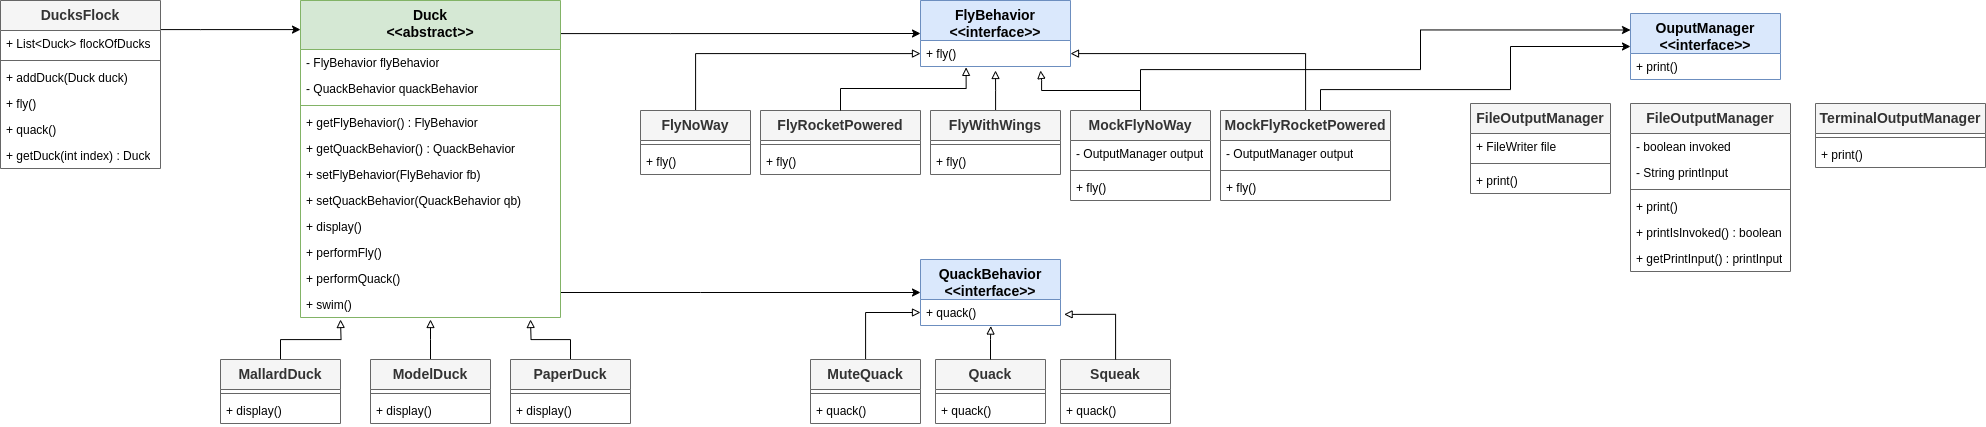
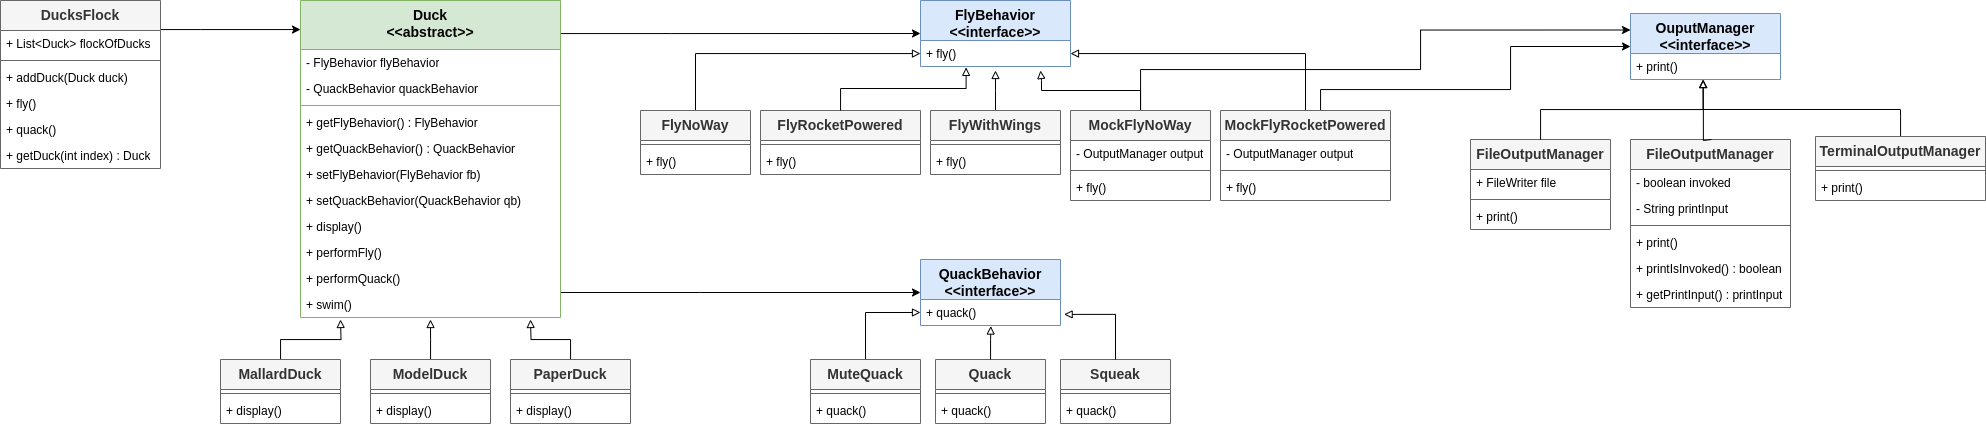
refactor tests on ducksimulator and fix class diagram

diff --git a/src/test/java/ducksimulator/DuckSimulatorTests.java b/src/test/java/ducksimulator/DuckSimulatorTests.java
@@ -2,14 +2,12 @@ package ducksimulator;
 
 import org.junit.jupiter.api.Test;
 
-import ducksimulator.flybehavior.FlyBehavior;
 import ducksimulator.flybehavior.FlyRocketPowered;
 import ducksimulator.flybehavior.MockFlyNoWay;
 import ducksimulator.flybehavior.MockFlyRocketPowered;
-import ducksimulator.quackbehavior.Quack;
-import ducksimulator.quackbehavior.Squeak;
+import ducksimulator.quackbehavior.MockMuteQuack;
+import ducksimulator.quackbehavior.MockSqueak;
 import output.MockOutputManager;
-import output.OutputManager;
 
 import static org.assertj.core.api.Assertions.assertThat;
 
@@ -25,9 +23,8 @@ public class DuckSimulatorTests {
     public void testChangeOfFlyBehavior() {
         Duck mallardDuck = new MallardDuck();
         MockOutputManager output = new MockOutputManager();
-        FlyBehavior flyBehavior = new MockFlyNoWay(output);
-        
-        mallardDuck.setFlyBehavior(flyBehavior);
+    
+        mallardDuck.setFlyBehavior(new MockFlyNoWay(output));
         mallardDuck.performFly();
         assert(output.getPrintInput().equals("I can't fly"));
         
@@ -38,13 +35,16 @@ public class DuckSimulatorTests {
 
     @Test
     public void testChangeOfQuackBehavior() {
-        Duck mallardDuck = new MallardDuck();
-        mallardDuck.setQuackBehavior(new Quack());
+        Duck mallardDuck = new PaperDuck();
+        MockOutputManager output = new MockOutputManager();
+    
+        mallardDuck.setQuackBehavior(new MockMuteQuack(output));
+        mallardDuck.performQuack();
+        assert(output.getPrintInput().equals("<< Silence >>"));
         
-        assert(mallardDuck.getQuackBehavior() instanceof Quack);
-
-        mallardDuck.setQuackBehavior(new Squeak());
-        assert(mallardDuck.getQuackBehavior() instanceof Squeak);
+        mallardDuck.setQuackBehavior(new MockSqueak(output));
+        mallardDuck.performQuack();
+        assert(output.getPrintInput().equals("Squeak"));
     }
 
     @Test
@@ -61,6 +61,5 @@ public class DuckSimulatorTests {
         assertThat(ducksFlock.getDuck(0)).isEqualTo(mallardDuck);
         assertThat(ducksFlock.getDuck(1)).isEqualTo(modelDuck);
         assertThat(ducksFlock.getDuck(2)).isEqualTo(paperDuck);
-
     }
 }

diff --git a/src/test/java/bowlinggame/TestFrame.java b/src/test/java/bowlinggame/TestFrame.java
@@ -1,6 +1,7 @@
 package bowlinggame;
 
 import static org.assertj.core.api.Assertions.*;
+import static org.junit.jupiter.api.Assertions.assertEquals;
 import static org.junit.jupiter.api.Assertions.assertThrows;
 
 import java.util.stream.Stream;
@@ -68,7 +69,6 @@ public class TestFrame {
         );
     }
 
-
     @ParameterizedTest
     @MethodSource("illegalLastFrameProvider")
     public void negativeFirstRollOfLastFrame(int[] nextNextFrameRolls) {
@@ -95,9 +95,8 @@ public class TestFrame {
         frame.roll(10, 0);
         nextFrame.roll(10, 0);
         rollAll(nextNextFrame, nextNextFrameRolls);
-        assert(nextNextFrame.getScore() == expectedScore);
+        assertEquals(nextNextFrame.getScore(), expectedScore);
     }
-
 
     private static Stream<Arguments> lastFrameScoreProvider() {
         return Stream.of(

diff --git a/src/test/java/caesarcracker/TestCaesarCracker.java b/src/test/java/caesarcracker/TestCaesarCracker.java
@@ -4,13 +4,11 @@ import static org.junit.jupiter.api.Assertions.assertEquals;
 
 import java.io.LineNumberInputStream;
 import java.io.StringBufferInputStream;
-import java.util.List;
 import java.util.stream.Stream;
 
 import org.junit.jupiter.params.ParameterizedTest;
 import org.junit.jupiter.params.provider.Arguments;
 import org.junit.jupiter.params.provider.MethodSource;
-
 
 @SuppressWarnings("deprecation")
 public class TestCaesarCracker {

diff --git a/src/main/java/ducksimulator/quackbehavior/MockMuteQuack.java b/src/main/java/ducksimulator/quackbehavior/MockMuteQuack.java
@@ -1,0 +1,17 @@
+package ducksimulator.quackbehavior;
+
+import output.OutputManager;
+
+public class MockMuteQuack implements QuackBehavior {
+
+    private OutputManager output;
+
+    public MockMuteQuack(OutputManager output) {
+        this.output = output;
+    }
+
+    @Override
+    public void quack() {
+        output.print("<< Silence >>");
+    }
+}

diff --git a/src/main/java/ducksimulator/quackbehavior/MockSqueak.java b/src/main/java/ducksimulator/quackbehavior/MockSqueak.java
@@ -1,0 +1,16 @@
+package ducksimulator.quackbehavior;
+
+import output.OutputManager;
+
+public class MockSqueak  implements QuackBehavior{
+    private OutputManager output;
+
+    public MockSqueak(OutputManager output) {
+        this.output = output;
+    }
+
+    @Override
+    public void quack() {
+        output.print("Squeak");
+    }
+}

diff --git a/src/test/java/adapter/TestTupleAdapter.java b/src/test/java/adapter/TestTupleAdapter.java
@@ -13,8 +13,7 @@ import adapter.list.TupleAdapter;
 import static org.junit.jupiter.api.Assertions.*;
 import java.util.List;
 
-
-public class TupleAdapterTest {
+public class TestTupleAdapter {
     private ImmutableTuple<Integer> tuple;
     private static List<Integer> adapter;
 
